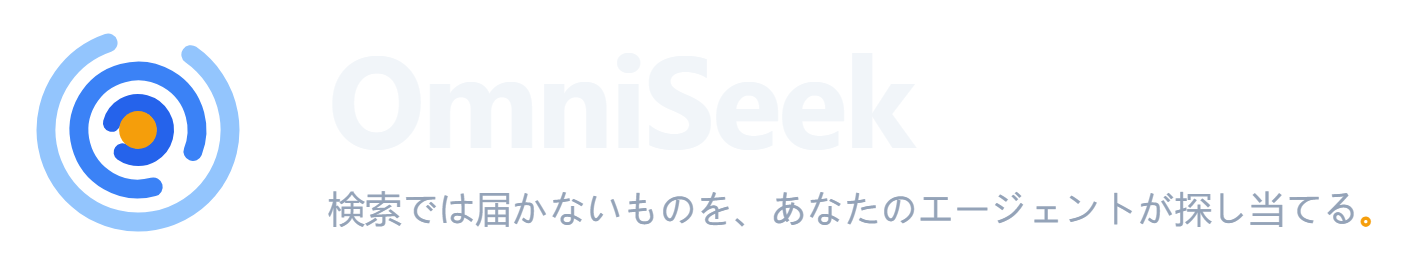
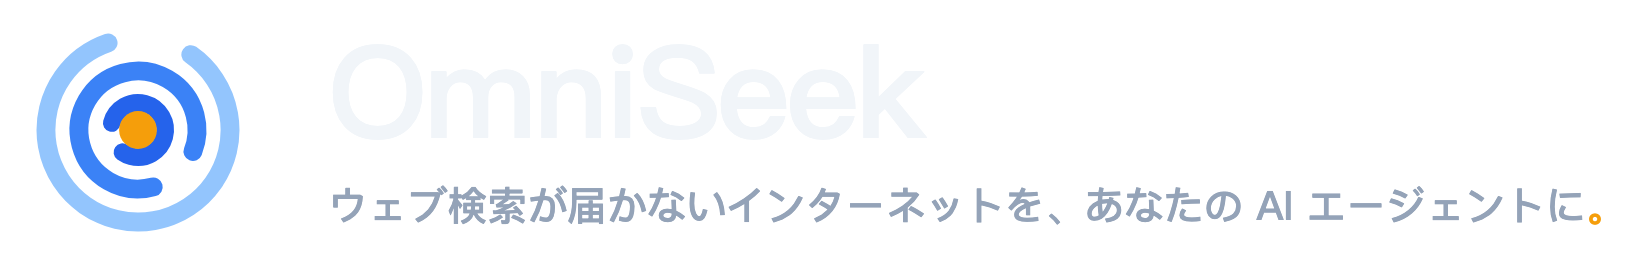
assets: hero and social card carry the new tagline; READMEs and site use them again
- assets/masters/gen_hero.py: English, Chinese and Japanese taglines are the
  current ones from docs/BRAND.md. Re-rendered all six hero lockups (three
  languages, light and dark).
- assets/masters/gen_social.py: the new tagline on two lines, and the sub
  line says "Self-hosted MCP server for AI agents". Re-rendered.
- README.md and the Chinese and Japanese READMEs open with the hero again
  (absolute raw.githubusercontent.com URLs, dark variant via
  prefers-color-scheme) in place of the logo plus text heading.
- site: og:image points at the social card again, with a large-image
  Twitter card.
- docs/BRAND.md: the asset inventory no longer says the renders are stale.
- CHANGELOG: one line under Unreleased.

Changed region(s): [[0.0, 0.1231, 0.1864, 0.8923], [0.1864, 0.7077, 0.9944, 0.8923]]

diff --git a/site/cross-lingual-search-mcp.html b/site/cross-lingual-search-mcp.html
@@ -7,9 +7,9 @@
 <meta name="description" content="Ask in English; your agent writes the Chinese query, OmniSeek runs it on Bilibili, V2EX, Zhihu, and Chinese podcasts, and your agent answers in English with links to the original posts.">
 <meta property="og:title" content="Cross-lingual search MCP server: let your AI agent search Chinese sources from an English question">
 <meta property="og:description" content="Ask in English; your agent writes the Chinese query, OmniSeek runs it on Bilibili, V2EX, Zhihu, and Chinese podcasts, and your agent answers in English with links to the original posts.">
-<meta property="og:image" content="https://raw.githubusercontent.com/Battam1111/omniseek/main/assets/logo-icon.png">
+<meta property="og:image" content="https://raw.githubusercontent.com/Battam1111/omniseek/main/assets/social-preview.png">
 <meta property="og:type" content="website">
-<meta name="twitter:card" content="summary">
+<meta name="twitter:card" content="summary_large_image">
 <link rel="icon" href="https://raw.githubusercontent.com/Battam1111/omniseek/main/assets/logo-dark.svg" type="image/svg+xml">
 <link rel="stylesheet" href="style.css">
 </head>

diff --git a/site/research-monitoring-mcp.html b/site/research-monitoring-mcp.html
@@ -7,9 +7,9 @@
 <meta name="description" content="Set a standing query once; OmniSeek reruns it hourly, daily, or weekly across papers, forums, and podcasts, and your agent sees only the results that weren&#x27;t there last time.">
 <meta property="og:title" content="Research monitoring MCP server: have your AI agent watch a topic and report only what&#x27;s new">
 <meta property="og:description" content="Set a standing query once; OmniSeek reruns it hourly, daily, or weekly across papers, forums, and podcasts, and your agent sees only the results that weren&#x27;t there last time.">
-<meta property="og:image" content="https://raw.githubusercontent.com/Battam1111/omniseek/main/assets/logo-icon.png">
+<meta property="og:image" content="https://raw.githubusercontent.com/Battam1111/omniseek/main/assets/social-preview.png">
 <meta property="og:type" content="website">
-<meta name="twitter:card" content="summary">
+<meta name="twitter:card" content="summary_large_image">
 <link rel="icon" href="https://raw.githubusercontent.com/Battam1111/omniseek/main/assets/logo-dark.svg" type="image/svg+xml">
 <link rel="stylesheet" href="style.css">
 </head>

diff --git a/site/citation-graph-mcp.html b/site/citation-graph-mcp.html
@@ -7,9 +7,9 @@
 <meta name="description" content="Give your agent a topic or a few papers, and it gets the citation neighborhood: which papers the field is built on and which recent ones build on them, from OpenAlex and Semantic Scholar.">
 <meta property="og:title" content="Citation graph MCP server: let your AI agent map a research field">
 <meta property="og:description" content="Give your agent a topic or a few papers, and it gets the citation neighborhood: which papers the field is built on and which recent ones build on them, from OpenAlex and Semantic Scholar.">
-<meta property="og:image" content="https://raw.githubusercontent.com/Battam1111/omniseek/main/assets/logo-icon.png">
+<meta property="og:image" content="https://raw.githubusercontent.com/Battam1111/omniseek/main/assets/social-preview.png">
 <meta property="og:type" content="website">
-<meta name="twitter:card" content="summary">
+<meta name="twitter:card" content="summary_large_image">
 <link rel="icon" href="https://raw.githubusercontent.com/Battam1111/omniseek/main/assets/logo-dark.svg" type="image/svg+xml">
 <link rel="stylesheet" href="style.css">
 </head>

diff --git a/site/zhihu-mcp.html b/site/zhihu-mcp.html
@@ -7,9 +7,9 @@
 <meta name="description" content="Your agent can search Zhihu through public search-engine results with no account, or read full answers through your own Zhihu login if you turn it on (off by default).">
 <meta property="og:title" content="Zhihu MCP server: search Zhihu questions and answers from Claude Code and other MCP clients">
 <meta property="og:description" content="Your agent can search Zhihu through public search-engine results with no account, or read full answers through your own Zhihu login if you turn it on (off by default).">
-<meta property="og:image" content="https://raw.githubusercontent.com/Battam1111/omniseek/main/assets/logo-icon.png">
+<meta property="og:image" content="https://raw.githubusercontent.com/Battam1111/omniseek/main/assets/social-preview.png">
 <meta property="og:type" content="website">
-<meta name="twitter:card" content="summary">
+<meta name="twitter:card" content="summary_large_image">
 <link rel="icon" href="https://raw.githubusercontent.com/Battam1111/omniseek/main/assets/logo-dark.svg" type="image/svg+xml">
 <link rel="stylesheet" href="style.css">
 </head>

diff --git a/site/podcast-transcription-mcp.html b/site/podcast-transcription-mcp.html
@@ -7,9 +7,9 @@
 <meta name="description" content="Give your agent a podcast or video link, or just a topic, and it gets a transcript of the part that matters, with timestamps, transcribed locally on your own machine.">
 <meta property="og:title" content="Podcast transcription MCP server: let your AI agent quote what was said, with timestamps">
 <meta property="og:description" content="Give your agent a podcast or video link, or just a topic, and it gets a transcript of the part that matters, with timestamps, transcribed locally on your own machine.">
-<meta property="og:image" content="https://raw.githubusercontent.com/Battam1111/omniseek/main/assets/logo-icon.png">
+<meta property="og:image" content="https://raw.githubusercontent.com/Battam1111/omniseek/main/assets/social-preview.png">
 <meta property="og:type" content="website">
-<meta name="twitter:card" content="summary">
+<meta name="twitter:card" content="summary_large_image">
 <link rel="icon" href="https://raw.githubusercontent.com/Battam1111/omniseek/main/assets/logo-dark.svg" type="image/svg+xml">
 <link rel="stylesheet" href="style.css">
 </head>

diff --git a/site/index.html b/site/index.html
@@ -7,9 +7,9 @@
 <meta name="description" content="OmniSeek is a self-hosted MCP server. Through one connection, your agent can search what people said in podcasts and videos, Chinese communities such as Bilibili and V2EX, and paper citation graphs. 200+ sources; works with Claude Code, Cursor, and other MCP clients.">
 <meta property="og:title" content="OmniSeek">
 <meta property="og:description" content="Give your AI agent the parts of the internet web search doesn't reach. A self-hosted MCP server with 200+ sources.">
-<meta property="og:image" content="https://raw.githubusercontent.com/Battam1111/omniseek/main/assets/logo-icon.png">
+<meta property="og:image" content="https://raw.githubusercontent.com/Battam1111/omniseek/main/assets/social-preview.png">
 <meta property="og:type" content="website">
-<meta name="twitter:card" content="summary">
+<meta name="twitter:card" content="summary_large_image">
 <link rel="icon" href="https://raw.githubusercontent.com/Battam1111/omniseek/main/assets/logo-dark.svg" type="image/svg+xml">
 <link rel="stylesheet" href="style.css">
 </head>

diff --git a/assets/masters/gen_social.py b/assets/masters/gen_social.py
@@ -18,7 +18,7 @@ HTML = """<!doctype html><html><head><meta charset="utf-8"><style>
   .field { position:absolute; inset:0; }
   .text { position:absolute; left:560px; top:50%; transform:translateY(-50%); }
   .name { font-size:98px; font-weight:750; letter-spacing:-.025em; color:#F1F5F9; line-height:1; }
-  .tag { font-size:31px; font-weight:500; color:#94A3B8; margin-top:18px; letter-spacing:-.005em; }
+  .tag { font-size:31px; font-weight:500; color:#94A3B8; margin-top:18px; letter-spacing:-.005em; line-height:1.3; }
   .tag .dot { color:#F59E0B; font-weight:800; }
   .sub { font-size:22px; font-weight:500; color:#64748B; margin-top:14px; }
 </style></head><body>
@@ -45,8 +45,8 @@ HTML = """<!doctype html><html><head><meta charset="utf-8"><style>
   </svg>
   <div class="text">
     <div class="name">OmniSeek</div>
-    <div class="tag">Your agent seeks what search can&rsquo;t find<span class="dot">.</span></div>
-    <div class="sub">Self-hosted perception MCP server for AI agents</div>
+    <div class="tag">Give your AI agent the parts of the internet<br>web search doesn&rsquo;t reach<span class="dot">.</span></div>
+    <div class="sub">Self-hosted MCP server for AI agents</div>
   </div>
 </div>
 </body></html>"""

diff --git a/assets/masters/gen_hero.py b/assets/masters/gen_hero.py
@@ -41,9 +41,9 @@ MODES = {
 
 # Taglines match each README's own wording; the terminal stop is split out so it can be amber.
 LANGS = {
-    "en": {"tagline": "Your agent seeks what search can&rsquo;t find", "stop": ".", "tagsize": 21.5},
-    "zh": {"tagline": "让你的 Agent 找到难以触及之物", "stop": "。", "tagsize": 21},
-    "ja": {"tagline": "検索では届かないものを、あなたのエージェントが探し当てる", "stop": "。", "tagsize": 18.5},
+    "en": {"tagline": "Give your AI agent the parts of the internet web search doesn&rsquo;t reach", "stop": ".", "tagsize": 21.5},
+    "zh": {"tagline": "给你的 AI Agent 接上网页搜索够不到的那部分互联网", "stop": "。", "tagsize": 21},
+    "ja": {"tagline": "ウェブ検索が届かないインターネットを、あなたの AI エージェントに", "stop": "。", "tagsize": 20},
 }
 
 BASE = pathlib.Path(__file__).parent

diff --git a/docs/BRAND.md b/docs/BRAND.md
@@ -59,9 +59,9 @@ The SVG masters are the single source of truth for the mark; the logo and social
 - `assets/logo-icon.png`: 1024px render of `logo.svg` on transparent; the standalone light-background mark.
 - `assets/logo-hero-dark.png`: 1024px render of `logo-dark.svg` on transparent; the standalone dark-background mark.
 - `assets/logo-hero.png`: the dark-variant mark centered on the navy field (source hero render).
-- `assets/hero-{en,zh,ja}-{light,dark}.png`: the README hero lockup (mark, wordmark, tagline with the amber full stop), per language and theme; generated and rendered by `assets/masters/gen_hero.py`. The committed renders still show the retired tagline; regenerate them from the master before pointing a README at them again.
+- `assets/hero-{en,zh,ja}-{light,dark}.png`: the README hero lockup (mark, wordmark, tagline with the amber full stop), per language and theme; generated and rendered by `assets/masters/gen_hero.py`. The scripts write into `assets/masters/` (ignored by git); copy the renders up into `assets/`.
 - `assets/demo-{en,zh,ja}-{light,dark}.png`: the README demo figure, per language and theme; generated by `assets/masters/gen_demo.py` and rendered by `assets/masters/render_demo.py`.
-- `assets/social-preview.png`: the 1280x640 link-share card; generated and rendered by `assets/masters/gen_social.py`. Upload under Settings > General > Social preview; committing it does not apply it. The committed render still shows the retired tagline; regenerate it from the master.
+- `assets/social-preview.png`: the 1280x640 link-share card; generated and rendered by `assets/masters/gen_social.py`. Upload under Settings > General > Social preview; committing it does not apply it.
 - `bench/funnel-s3/funnel-{light,dark}.svg`: the S3 rebuild funnel figure; rendered by `bench/funnel-s3/render_funnel.py` with the same palette tokens as the results chart.
 
 ## Rules

diff --git a/README.md b/README.md
@@ -1,12 +1,11 @@
 <!-- mcp-name: io.github.Battam1111/omniseek -->
 
 <p align="center">
-  <img src="https://raw.githubusercontent.com/Battam1111/omniseek/main/assets/logo-icon.png" width="88" alt="OmniSeek logo">
+  <picture>
+    <source media="(prefers-color-scheme: dark)" srcset="https://raw.githubusercontent.com/Battam1111/omniseek/main/assets/hero-en-dark.png">
+    <img src="https://raw.githubusercontent.com/Battam1111/omniseek/main/assets/hero-en-light.png" width="720" alt="OmniSeek: give your AI agent the parts of the internet web search doesn't reach.">
+  </picture>
 </p>
-
-# OmniSeek
-
-**Give your AI agent the parts of the internet web search doesn't reach.**
 
 OmniSeek is a self-hosted MCP server. Through one connection, your agent can search what people said in podcasts and videos, Chinese communities such as Bilibili and V2EX, and paper citation graphs. If you turn it on, it can also read sites behind your own login (off by default). It covers 200+ sources and works with Claude Code, Cursor, and other MCP clients.
 

diff --git a/docs/i18n/README_zh.md b/docs/i18n/README_zh.md
@@ -1,10 +1,9 @@
 <p align="center">
-  <img src="https://raw.githubusercontent.com/Battam1111/omniseek/main/assets/logo-icon.png" width="88" alt="OmniSeek 标志">
+  <picture>
+    <source media="(prefers-color-scheme: dark)" srcset="https://raw.githubusercontent.com/Battam1111/omniseek/main/assets/hero-zh-dark.png">
+    <img src="https://raw.githubusercontent.com/Battam1111/omniseek/main/assets/hero-zh-light.png" width="560" alt="OmniSeek：给你的 AI Agent 接上网页搜索够不到的那部分互联网。">
+  </picture>
 </p>
-
-# OmniSeek
-
-**给你的 AI Agent 接上网页搜索够不到的那部分互联网。**
 
 OmniSeek 是一个自己部署的 MCP 服务。接上一次，你的 Agent 就能搜播客和视频里说的话、B 站和 V2EX 这类中文社区、论文引用图。你打开后，它还能用你自己的登录态读要登录才能看的网站（默认关）。覆盖 200 多个源，Claude Code、Cursor 等支持 MCP 的客户端都能用。
 

diff --git a/docs/i18n/README_ja.md b/docs/i18n/README_ja.md
@@ -1,12 +1,9 @@
-<div align="center">
-
-<img src="https://raw.githubusercontent.com/Battam1111/omniseek/main/assets/logo-icon.png" width="88" alt="OmniSeek">
-
-<h1>OmniSeek</h1>
-
-<b>ウェブ検索が届かないインターネットを、あなたの AI エージェントに。</b>
-
-</div>
+<p align="center">
+  <picture>
+    <source media="(prefers-color-scheme: dark)" srcset="https://raw.githubusercontent.com/Battam1111/omniseek/main/assets/hero-ja-dark.png">
+    <img src="https://raw.githubusercontent.com/Battam1111/omniseek/main/assets/hero-ja-light.png" width="670" alt="OmniSeek:ウェブ検索が届かないインターネットを、あなたの AI エージェントに。">
+  </picture>
+</p>
 
 インストール(Python 3.11 以上):
 
